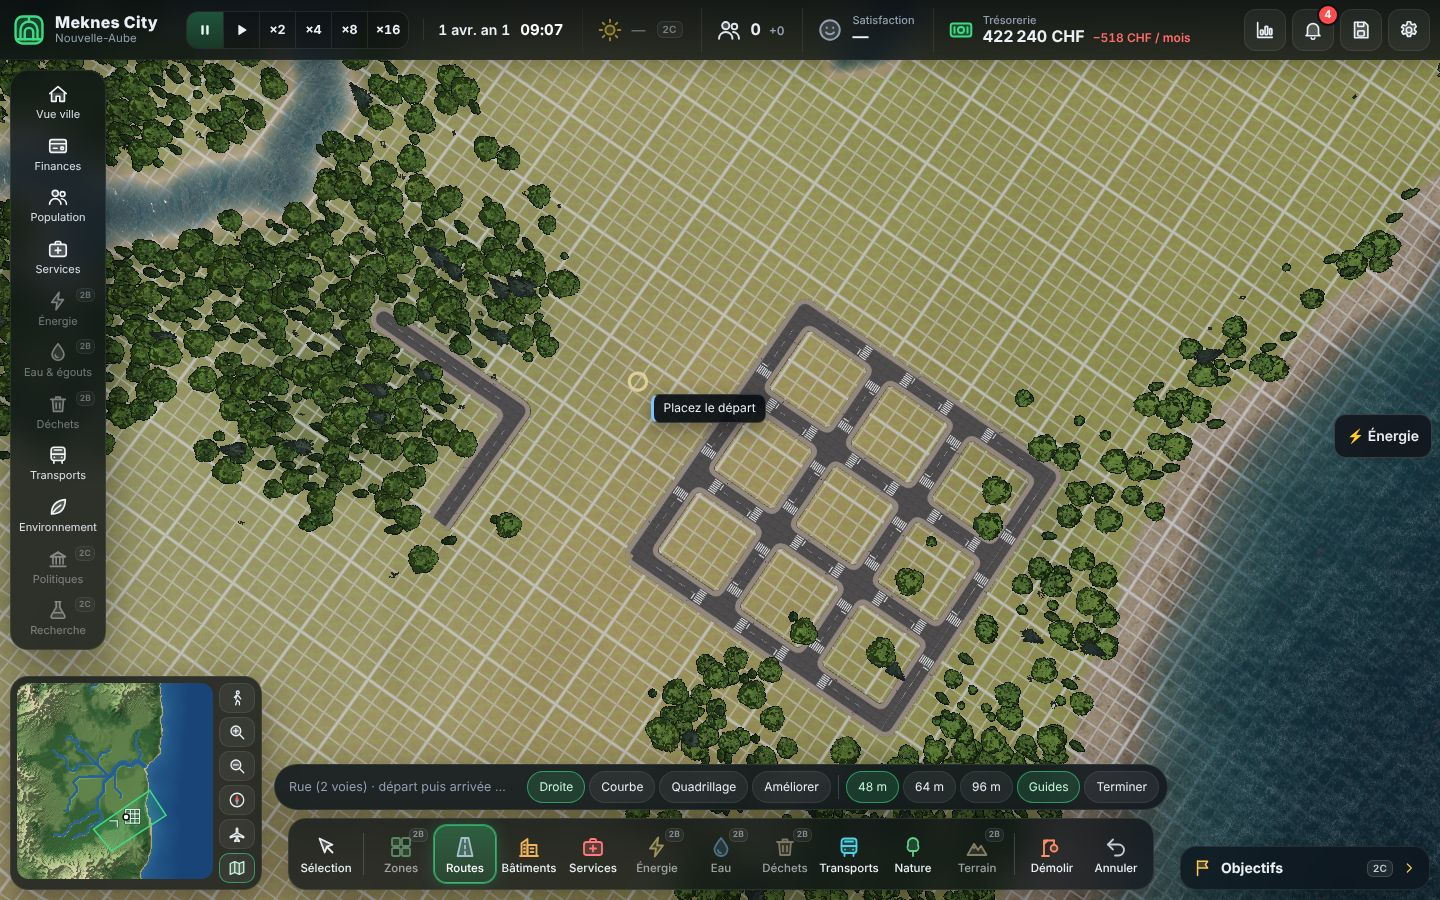
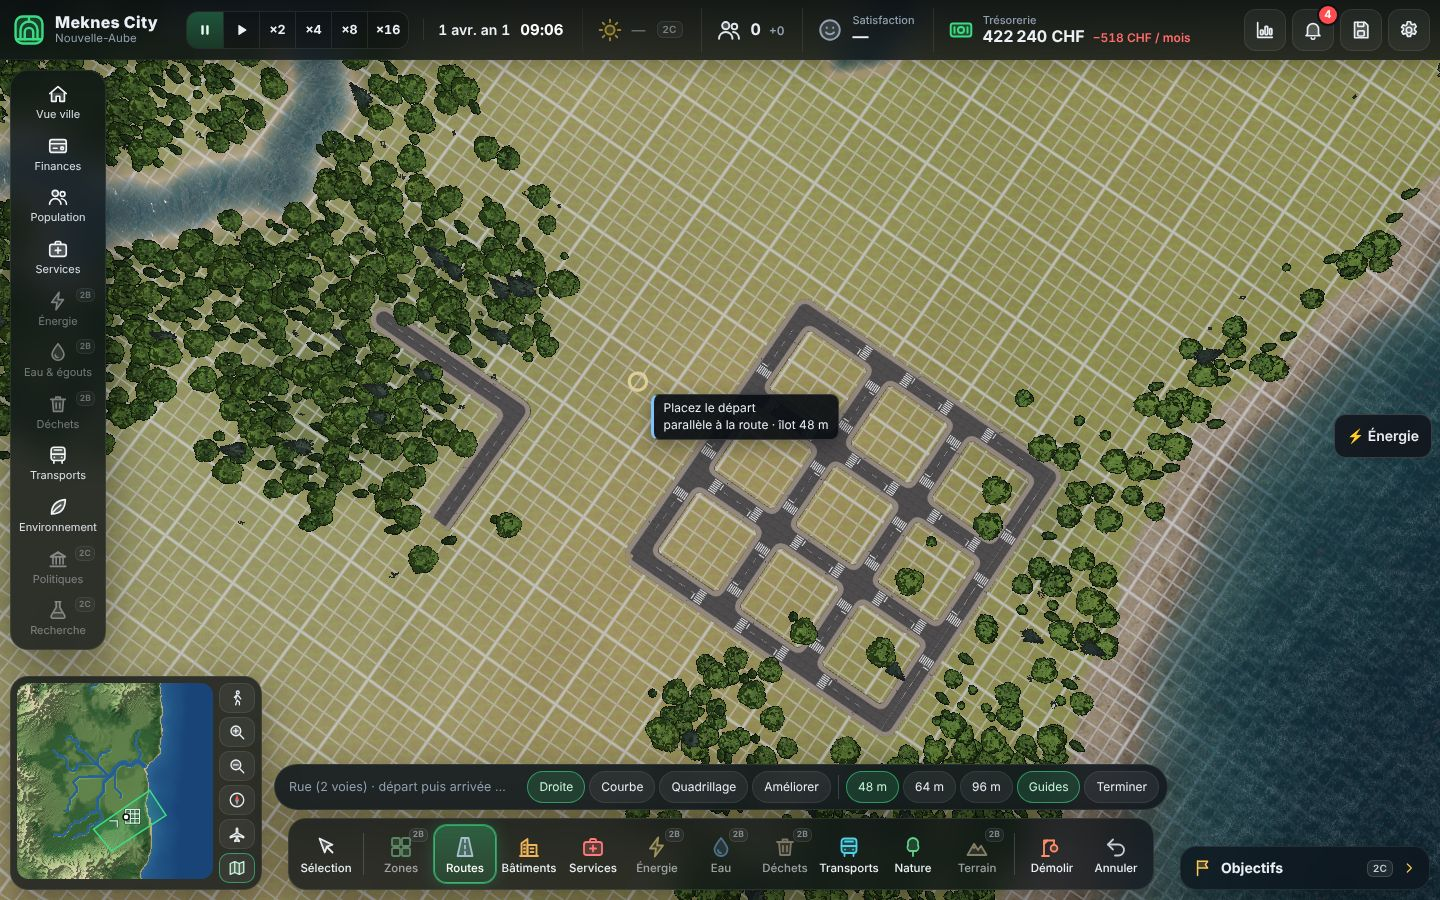
Voirie : la ligne guide est annoncée dès le placement du départ
Claude-Session: https://claude.ai/code/session_01KGPYpRtbR3jK2KCeqvKtWW

Changed region(s): [[0.4375, 0.4356, 0.5938, 0.4978]]

diff --git a/city-builder/src/input/tools.ts b/city-builder/src/input/tools.ts
@@ -314,7 +314,7 @@ export class ToolController implements IToolController, PointerToolSink {
       case 'road': {
         this.road.show({ points: p.points, width: roadWidth(p.type), validity: p.points ? p.validity : 'ok', start: p.start, control: p.control, hover: p.hover, arrows: p.type === 'oneway' });
         const head = `${fmt(p.length)} m${p.angle ? ` · ${p.angle}` : ''}`;
-        if (!p.points) tag(p.message ? `${p.message}${p.chained ? `\n${p.chained} tronçon${p.chained > 1 ? 's' : ''} · Terminer pour arrêter` : ''}` : null, 'info');
+        if (!p.points) tag(p.message ? `${p.message}${p.hover?.guide ? `\n${p.hover.guide.label}` : ''}${p.chained ? `\n${p.chained} tronçon${p.chained > 1 ? 's' : ''} · Terminer pour arrêter` : ''}` : null, 'info');
         else if (p.validity === 'error') tag(`${head}\n${p.message}`, 'error');
         else tag(`${head} · ${fmt(p.cost)} ¢${p.hover?.guide ? `\n${p.hover.guide.label}` : ''}`, p.validity === 'ok' ? 'ok' : 'pending');
         break;
